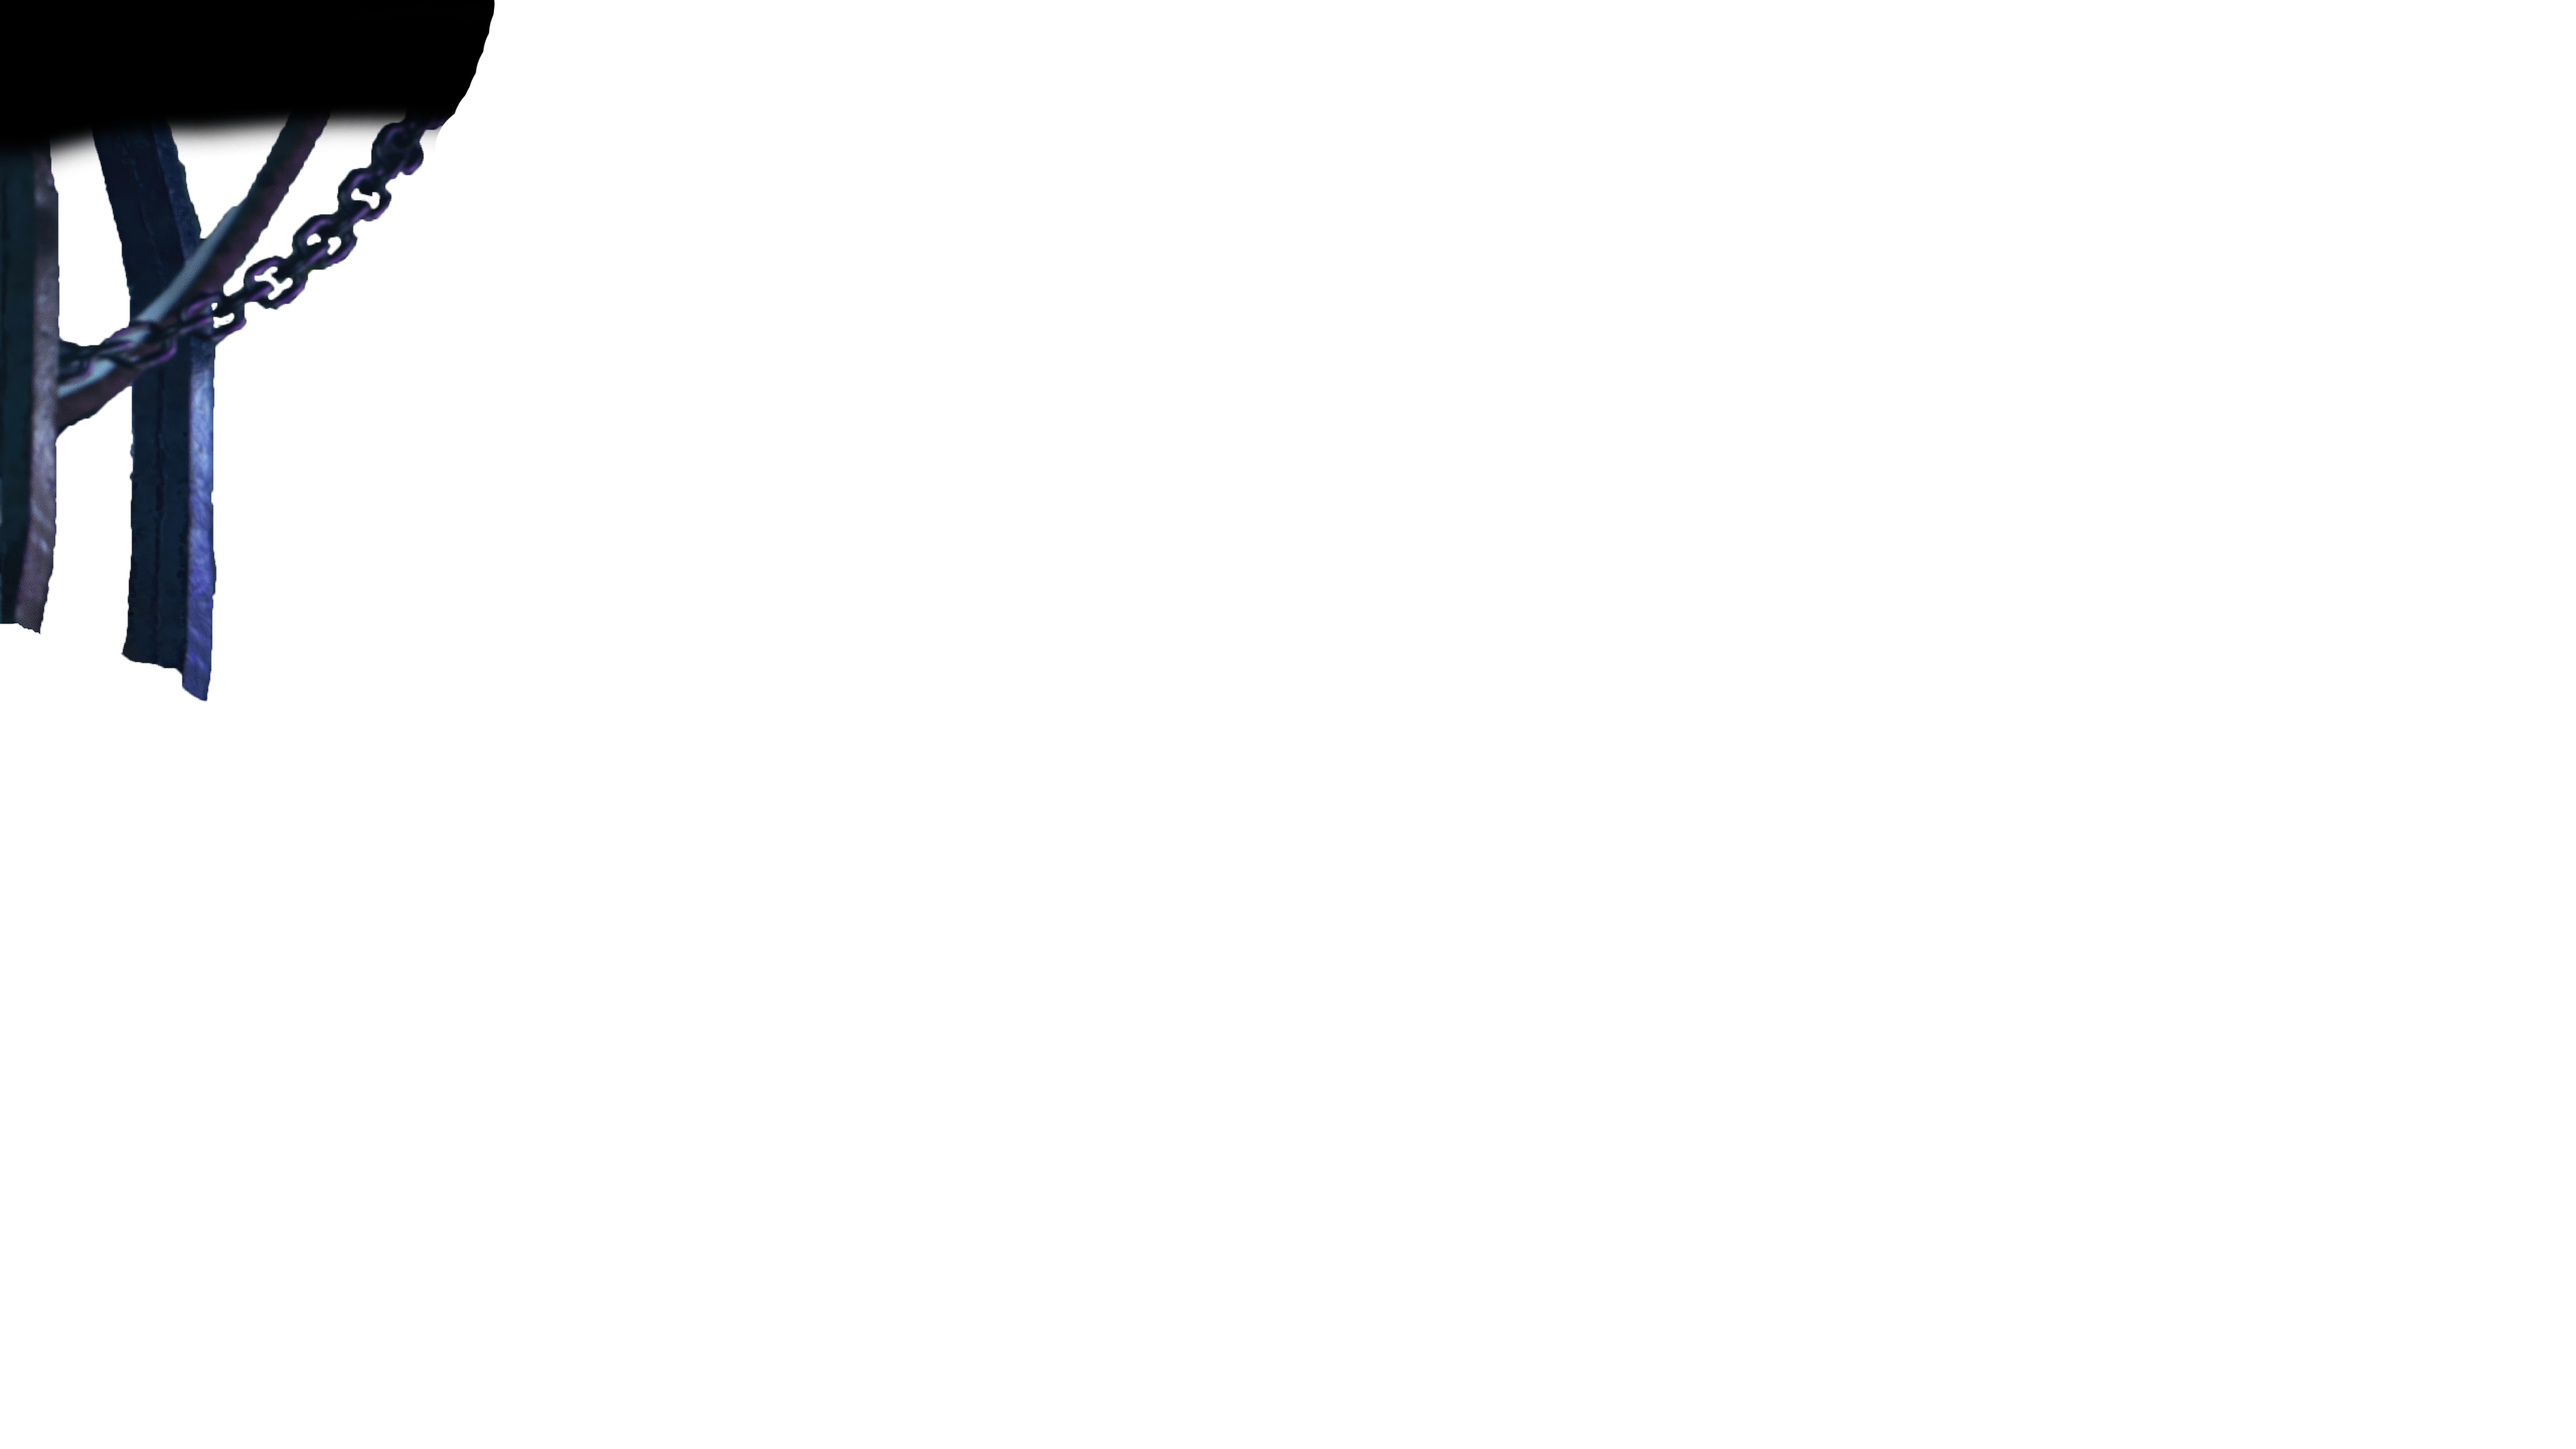
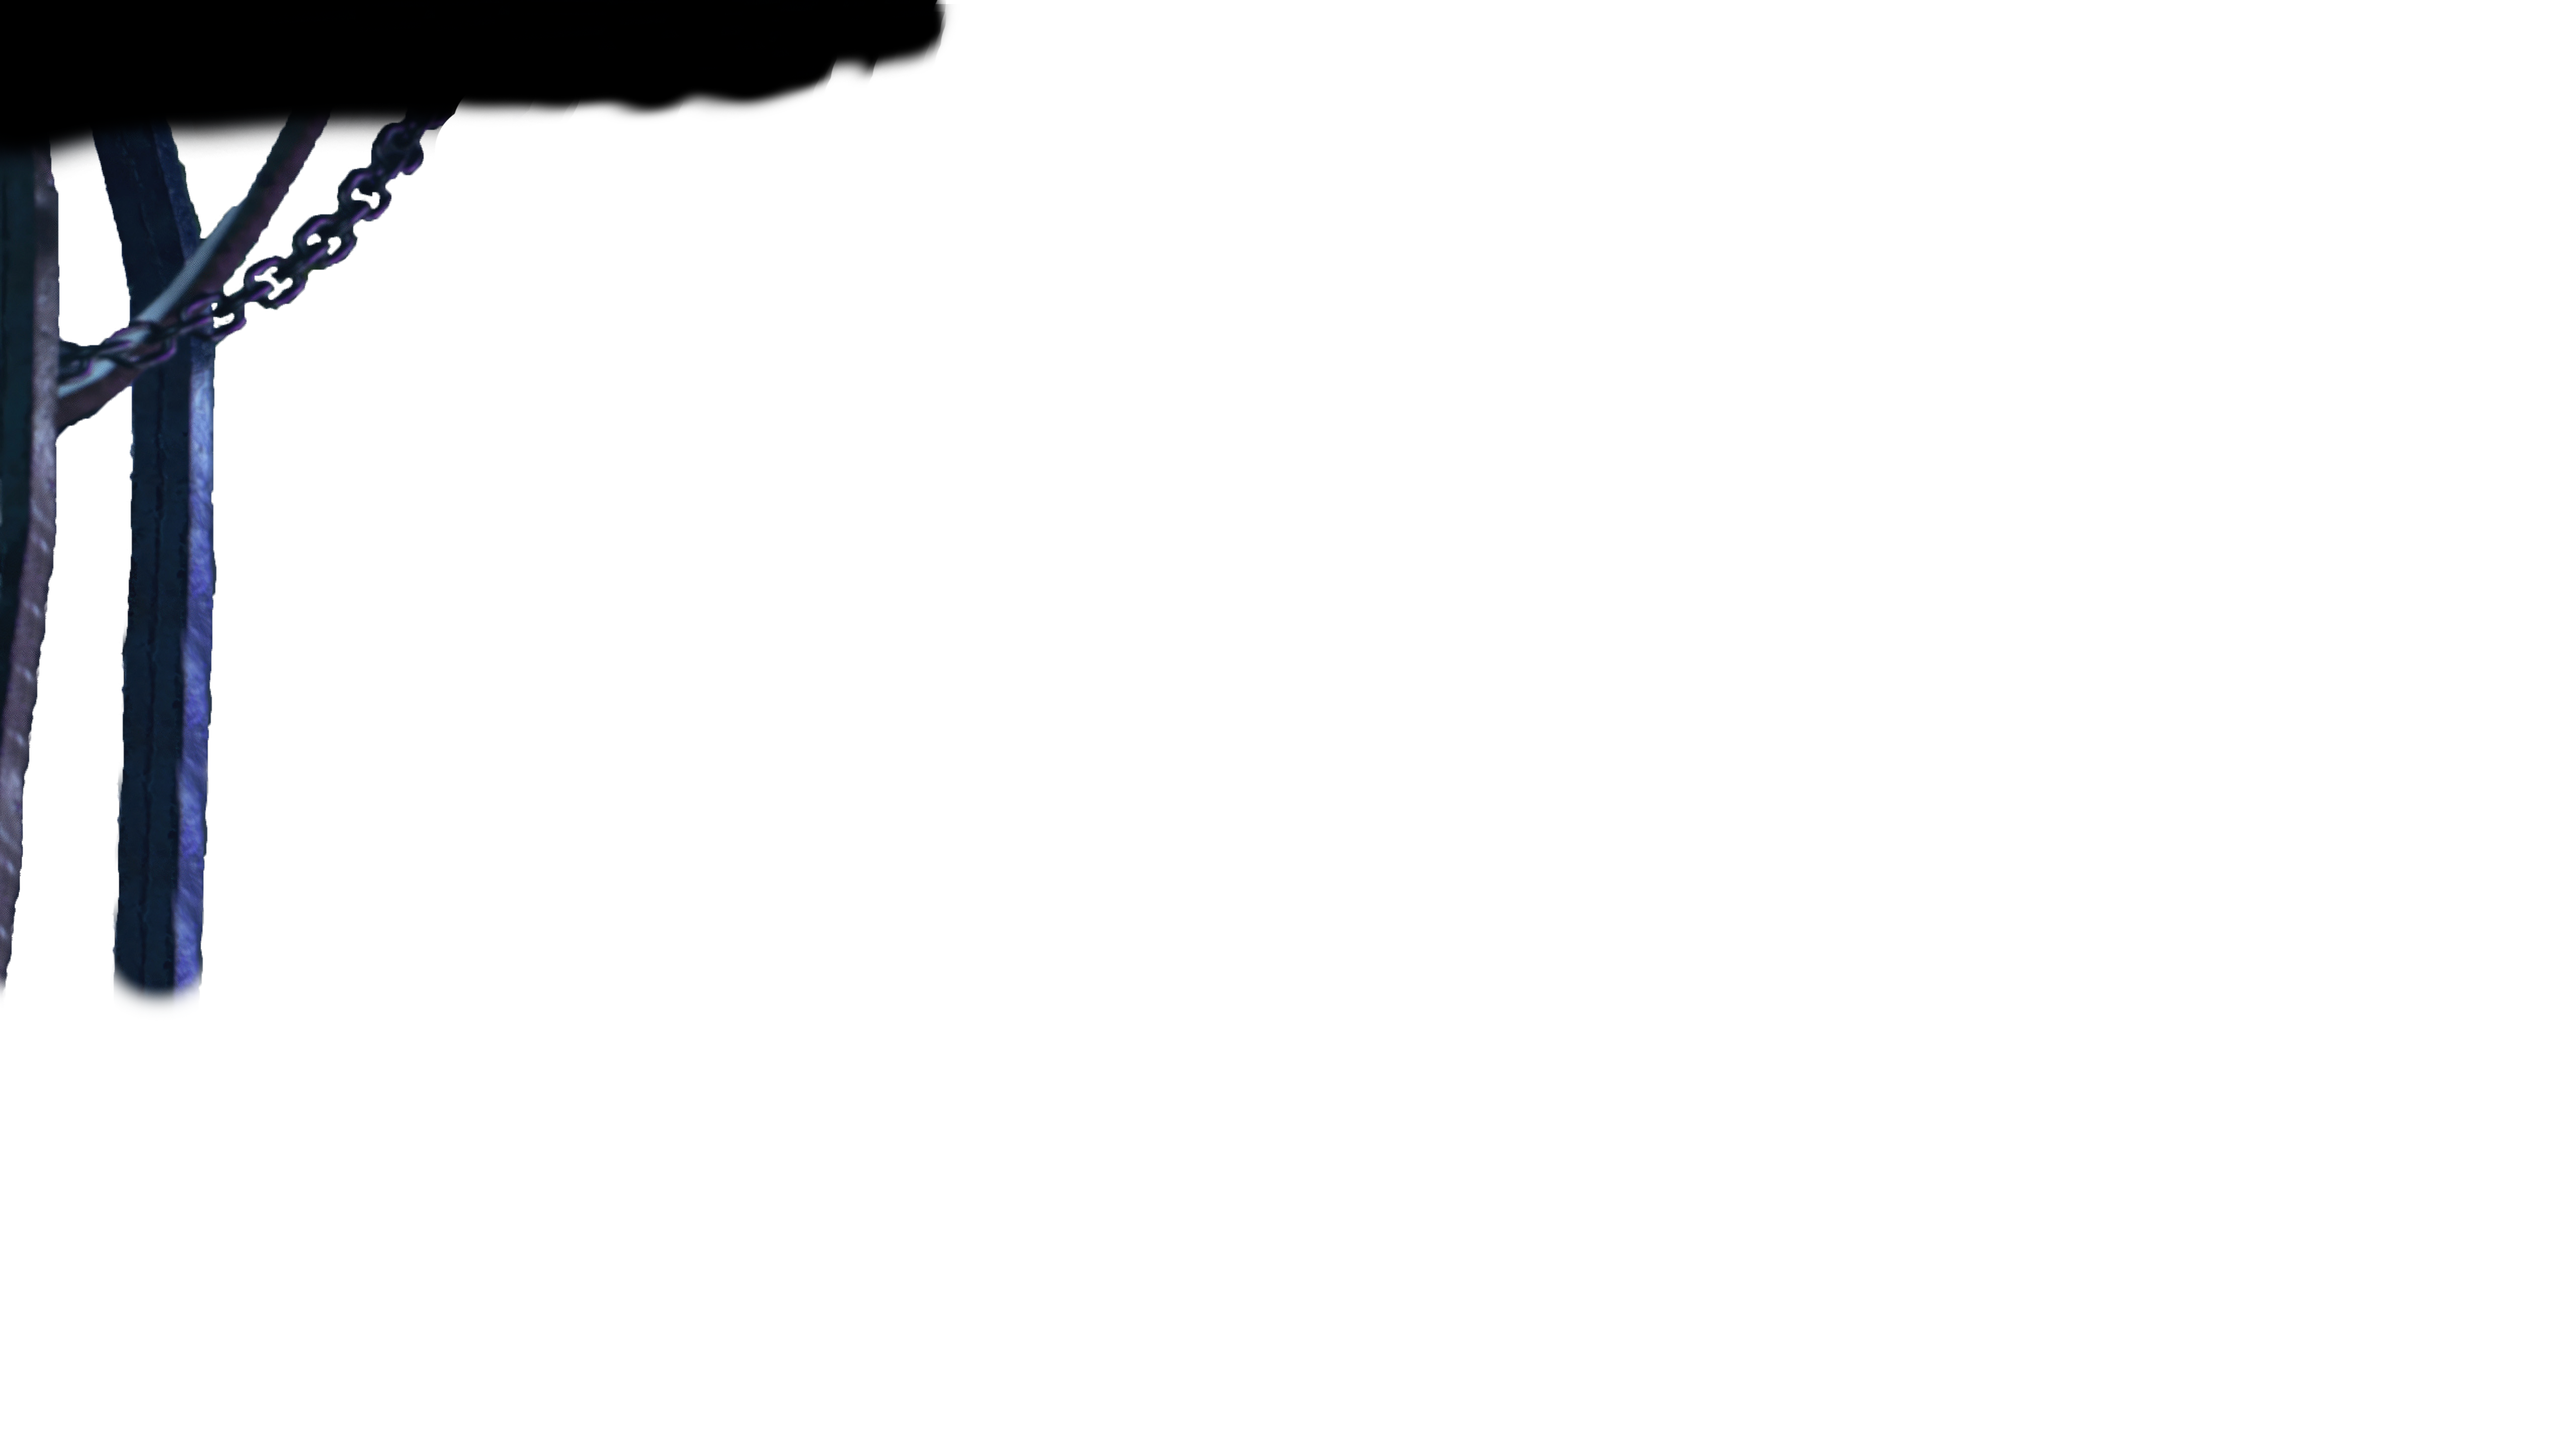
добавлен текс для нижней части сайта. Добавлен parallax эффект

Changed region(s): [[0.0, 0.4062, 0.0938, 0.6875], [0.1562, 0.0, 0.375, 0.0938]]

diff --git a/css/main.css b/css/main.css
@@ -29,14 +29,35 @@ body {
   overflow-x: hidden;
 }
 
+.layer {
+  height: 100%;
+  width: 100%;
+  position: absolute;
+  background-size: cover;
+  background-repeat: no-repeat;
+  background-position: center;
+  transition: var(--transition);
+}
+
+.layers {
+  height: 105vh;
+  display: flex;
+  align-items: center;
+  justify-content: center;
+  text-align: center;
+  overflow: hidden;
+  position: relative;
+}
+
 .layer__header {
   padding: 1px;
-  z-index: 2;
   margin-bottom: calc(var(--index) * 12);
   margin-left: calc(var(--index) * 4);
-  background-color: rgba(80, 156, 156, 0.151);
-  border-radius: 10px;
+  background-color: rgba(21, 41, 41, 0.37);
   border: 1px solid #6fcfe08a;
+  border-radius: 10px;
+  box-shadow: 10vh 0 10vh 0.5vh rgb(189, 233, 252);
+  z-index: 2;
 }
 
 .title {
@@ -53,16 +74,6 @@ body {
   font-weight: 900;
   text-transform: uppercase;
   text-shadow: 0 0 15px rgb(189, 233, 252);
-}
-
-.layers {
-  height: 105vh;
-  display: flex;
-  align-items: center;
-  justify-content: center;
-  text-align: center;
-  overflow: hidden;
-  position: relative;
 }
 
 .city__base {
@@ -91,16 +102,6 @@ body {
   z-index: 5;
 }
 
-.layer {
-  height: 100%;
-  width: 100%;
-  position: absolute;
-  background-size: cover;
-  background-repeat: no-repeat;
-  background-position: center;
-  transition: var(--transition);
-}
-
 .main-article {
   min-height: 100vh;
   width: 100%;
@@ -112,10 +113,37 @@ body {
 .main-article__content {
   display: flex;
   justify-content: center;
+  flex-direction: column;
+  align-items: center;
+  margin-top: 1vh;
 }
 
 .main-article-header {
+  margin-top: 3vh;
   color: rgb(251, 233, 250);
-  text-shadow: 0 0 15px rgb(172, 145, 251);
+  text-shadow: 1px 6px 25px rgb(172, 145, 251);
   transform: translate3d(0, calc(var(--scrollTop) / 15), 0);
+}
+
+.dungeon__front {
+  transform: translate3d(0, calc(var(--scrollTop) / -8), 0);
+  z-index: 2;
+  margin-top: 11vh;
+}
+
+.dungeon__back {
+  z-index: 1;
+}
+
+.dungeon__character {
+  z-index: 3;
+}
+
+.dungeon_text {
+  transform: translate3d(0, calc(var(--scrollTop) / -8), 0);
+  text-align: center;
+  font-size: calc(var(--index) * 0.7);
+  padding-top: 20vh;
+  max-width: 500px;
+  z-index: 1;
 }

diff --git a/index.html b/index.html
@@ -58,6 +58,10 @@
           ></div>
           <div class="main-article__content">
             <h2 class="title main-article-header">The World Has Collapsed</h2>
+            <p class="subtitle dungeon_text">
+              My mother always told me: “Someday you will find your calling.”
+              It's unlikely she meant killing zombies...
+            </p>
           </div>
         </article>
       </div>

diff --git a/README.md b/README.md
@@ -46,10 +46,10 @@
 
 ### 1.2 Добавление новых стилей и исправление старых.
 
-- Добавлен новый слой для увеличения эфекта parallax.
+- Добавлен новый слой для увеличения эффекта parallax.
 - Новые стили для стартовой страницы.
 - Исправление изображений.
-- Исправление parallax эфекта.
+- Исправление parallax эффекта.
 
 Новый слой:
 
@@ -64,15 +64,26 @@
 ### 1.3 Исправления стиля нижней части страницы
 
 - Добавлен плавный скролл.
-- Вырезаны отдельные части низа страницы для будущего эфекта parallax.
-- Добавлены эфекты на нижней части для эфекта слияния с верхней.
+- Вырезаны отдельные части низа страницы для будущего эффекта parallax.
+- Добавлены эффекты на нижней части для эффекта слияния с верхней.
 
 Новые слои duungeon:
 
-![projectV1.2 layers_dungeon](material_for_description/example_layers_dungeon.jpg)
+![projectV1.3 layers_dungeon](material_for_description/example_layers_dungeon.jpg)
 
-Пример финальной верси dungeon:
+Пример версии dungeon:
 
-![projectV1.2 dungeon_final](material_for_description/dungeon_final.jpg)
+![projectV1.3 dungeon_final](material_for_description/dungeon_final.jpg)
 
 ---
+
+### 1.4 Изменние нижней части страницы
+
+- Доабалена parallax эффект переднего плана низа сайта.
+- Отредактирована задняя часть низа сайта для правильности отображения parallax эффекта
+- Добавлен текст за персонажем.
+- Добавлен parallax эффект текста за персонажем.
+
+Вид нижней части сайта:
+
+![projectV1.4 examlpe_text_dungeon](material_for_description/example_text_dungeon.jpg)
